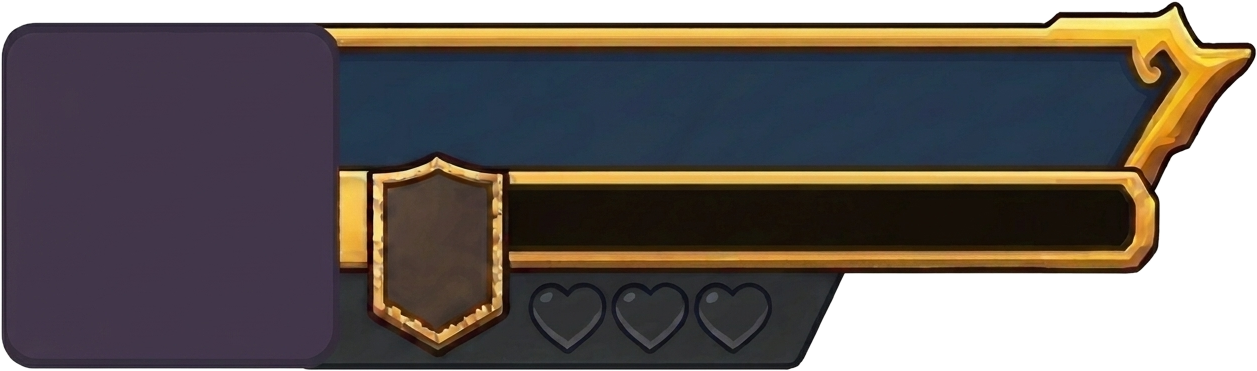
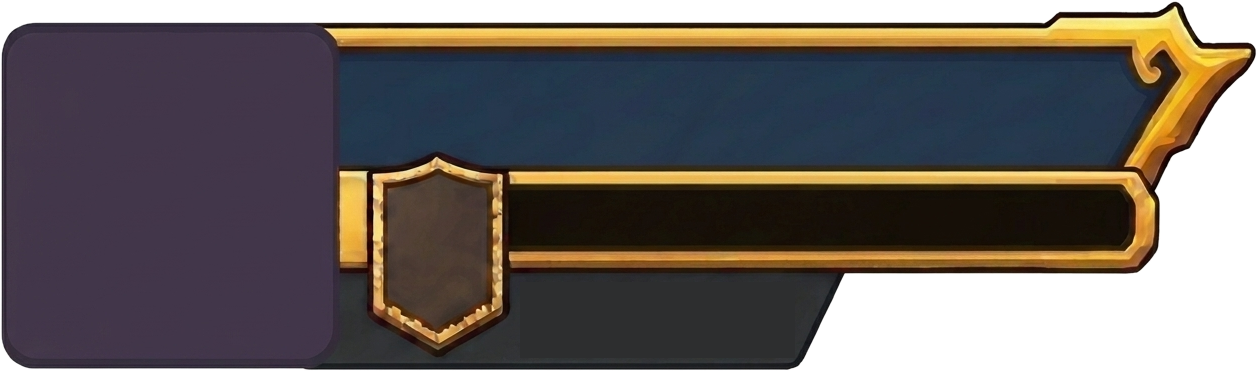
Gameplay: HUD profil player memakai hud-profile (hudlobby), gameplay/css/hud-profile.css

Changed region(s): [[0.4033, 0.7412, 0.6205, 0.9488], [0.4344, 0.8895, 0.4654, 0.9488], [0.4033, 0.8302, 0.4344, 0.8895]]

diff --git a/gameplay/css/hud-profile.css b/gameplay/css/hud-profile.css
@@ -1,0 +1,46 @@
+/* HUD profil player di gameplay — frame dari assets/images/pvp/hud-profile.png (1257x371 ≈ 400x118).
+   Hanya skin kartu #players .pg .pr; markup & logika tidak diubah. Dimuat SETELAH hud-mockup.css. */
+html body #players .pg .pr{
+  --hp-s:.318; /* 400 / 1257 */
+  display:block!important;position:relative!important;box-sizing:border-box!important;
+  width:400px!important;height:118px!important;min-height:118px!important;padding:0!important;margin:0!important;
+  border:0!important;border-radius:0!important;overflow:visible!important;
+  background:url("../../assets/images/pvp/hud-profile.png") 0 0/100% 100% no-repeat!important;
+  box-shadow:none!important;filter:drop-shadow(0 5px 6px rgba(0,0,0,.45));
+  transition:filter .2s ease;
+}
+html body #players .pg .pr.act,html body #players .pg .pr.on{
+  box-shadow:none!important;border:0!important;
+  filter:drop-shadow(0 0 7px rgba(255,212,90,.95)) drop-shadow(0 0 16px rgba(255,190,60,.55)) drop-shadow(0 5px 6px rgba(0,0,0,.45));
+}
+html body #players .pg .pr[class*="pfx-"]::after{border-radius:14px;inset:0}
+html body #players .pg .mid{display:contents!important}
+
+/* avatar: kotak kiri (x0-107, y7-116) */
+html body #players .pg .av{position:absolute!important;left:4px!important;top:10px!important;width:99px!important;height:103px!important;overflow:visible!important}
+html body #players .pg .av>img{width:99px!important;height:103px!important;object-fit:cover!important;border-radius:8px!important;background:#2a2036!important;image-rendering:pixelated!important}
+
+/* lencana giliran -> perisai coklat (x118-160, y49-111): angka urutan di tengah */
+html body #players .pg .tn{left:114px!important;top:39px!important;width:42px!important;height:62px!important;display:grid!important;place-items:center!important}
+html body #players .pg .tn img{display:none!important}
+html body #players .pg .tn b{font-size:24px!important;color:#fff3d0!important;text-shadow:0 2px 0 #1b1020!important;transform:translateY(-2px)}
+
+/* bar biru: nama + tag (x108-359, y14-52) */
+html body #players .pg .r1{position:absolute!important;left:112px!important;top:15px!important;width:236px!important;height:36px!important;display:flex!important;align-items:center!important;gap:6px!important}
+html body #players .pg .nm{flex:1 1 auto!important;font-size:23px!important;line-height:1!important;text-shadow:0 2px 0 rgba(0,0,0,.6),0 0 8px color-mix(in srgb,var(--pc,#fff) 70%,transparent)!important}
+html body #players .pg .nm .cr{width:22px!important;height:22px!important}
+html body #players .pg .tag{height:20px!important;padding:0 6px!important;font-size:11px!important}
+html body #players .pg .pu-using{max-width:70px!important;padding:1px 4px!important;font-size:10px!important}
+html body #players .pg .pu-using img{width:14px!important;height:14px!important}
+
+/* bar hitam: sisa waktu giliran (x162-362, y56-80) */
+html body #players .pg .turn-progress{position:absolute!important;left:166px!important;top:60px!important;width:190px!important;height:15px!important;margin:0!important;border-radius:8px!important;background:rgba(0,0,0,.55)!important}
+html body #players .pg .turn-progress>u{border-radius:8px!important}
+
+/* panel bawah: posisi petak + buff (x108-267, y87-116) */
+html body #players .pg .r2{position:absolute!important;left:166px!important;top:88px!important;width:112px!important;height:26px!important;display:flex!important;align-items:center!important;gap:5px!important;overflow:hidden}
+html body #players .pg .ps{font-size:15px!important;line-height:1!important;text-shadow:0 2px 0 rgba(0,0,0,.6)!important}
+html body #players .pg .bf{gap:3px!important}
+html body #players .pg .bi{width:22px!important;height:22px!important}
+html body #players .pg .bi em{font-size:10px!important;right:-4px!important;bottom:-4px!important;padding:0 2px!important}
+html body #players .pg .pr.off{filter:grayscale(1) drop-shadow(0 5px 6px rgba(0,0,0,.45))}

diff --git a/sw.js b/sw.js
@@ -4,7 +4,7 @@
    PEMBARUAN: ganti/tambah aset => naikkan VERSION. SW baru memasang cache sendiri lalu MENUNGGU; baru aktif (cache lama dibuang) setelah
    semua tab/aplikasi ditutup dan dibuka lagi (tanpa skipWaiting) -> pembaruan berlaku setelah restart aplikasi, tanpa campur versi di tengah sesi.
    Request Range (audio) dilayani dari cache bila file sudah tersimpan penuh; bila belum, lewat jaringan biasa. Non-GET tidak disentuh. */
-const VERSION = 'ut-pwa-v235';
+const VERSION = 'ut-pwa-v236';
 const CORE = ['index.html', 'play.html', 'splash.html', 'assets/css/pages/play.css', 'assets/js/pages/play.js', 'assets/js/pages/splash.js', 'assets/css/fonts.css', 'manifest.webmanifest', 'assets/images/background/clouds/cloud-1.svg', 'assets/images/background/clouds/cloud-2.svg', 'assets/images/background/clouds/cloud-3.svg', 'assets/icons/icon-192.png', 'assets/icons/icon-512.png'];
 const CODE = /\.(html|js|css|json|webmanifest)$/i;
 const MEDIA = /\.(png|webp|jpe?g|gif|svg|ico|woff2?|mp3|ogg|wav)$/i;

diff --git a/gameplay.html b/gameplay.html
@@ -209,7 +209,7 @@
 <script src="gameplay/js/hud-sync.js"></script>
 <link rel="stylesheet" href="gameplay/css/gameplay-overrides.css">
 
-<link rel="stylesheet" href="gameplay/css/hud-mockup.css">
+<link rel="stylesheet" href="gameplay/css/hud-mockup.css"><link rel="stylesheet" href="gameplay/css/hud-profile.css">
 <link rel="stylesheet" href="gameplay/css/pause.css">
 <link rel="stylesheet" href="gameplay/css/win-screen.css">
 <link rel="stylesheet" href="gameplay/css/level-up.css">
